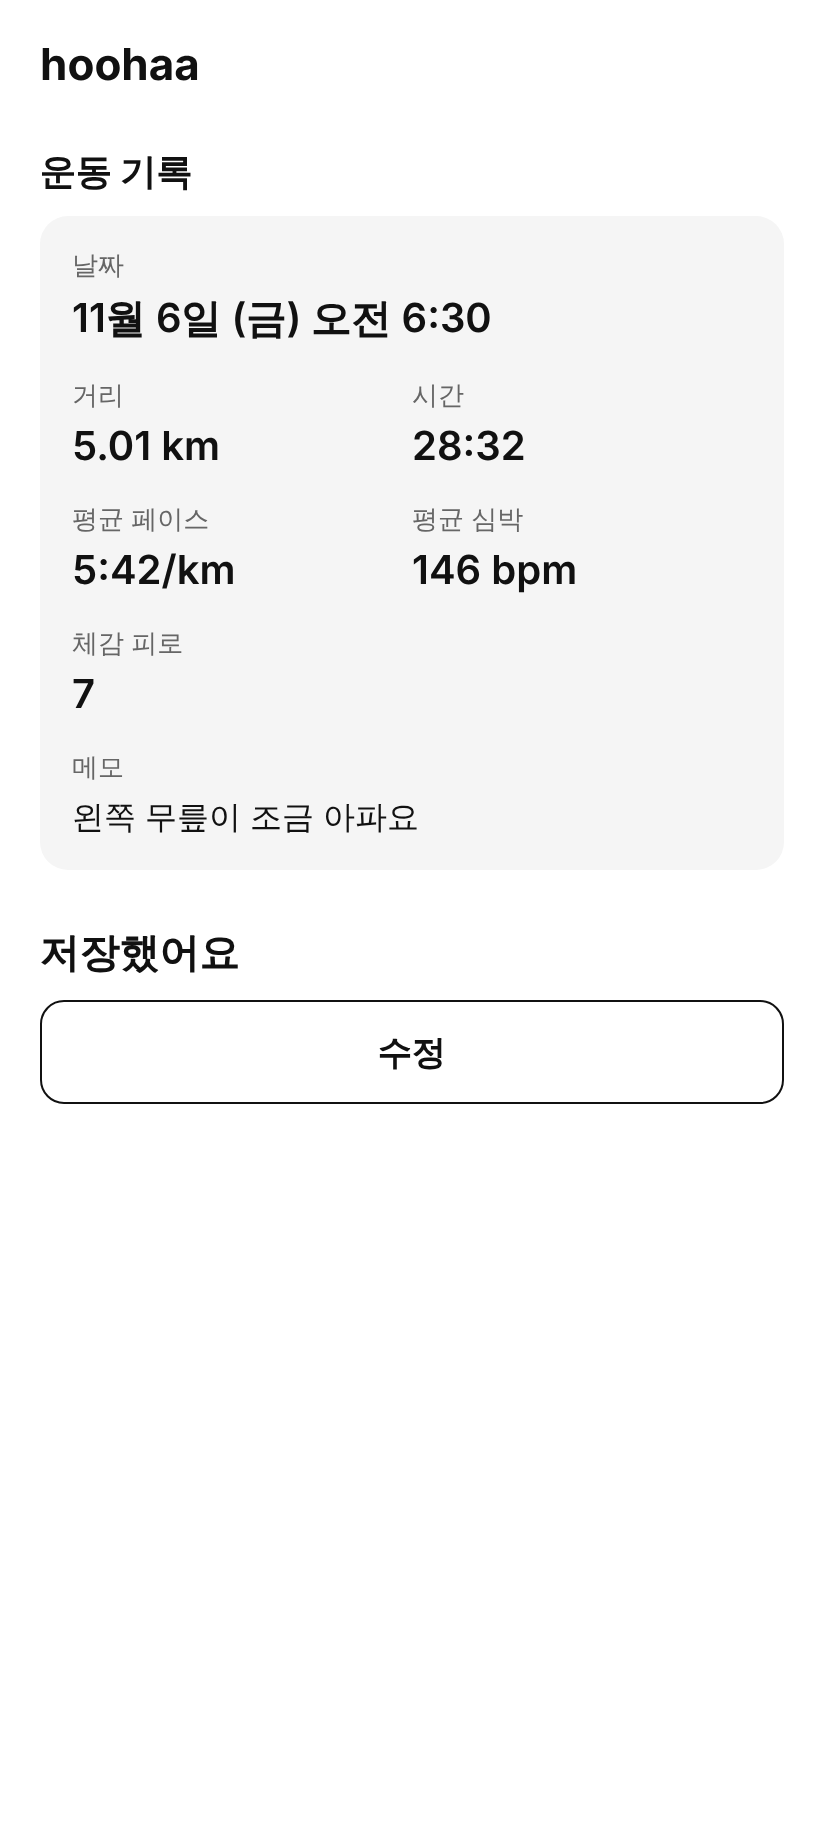
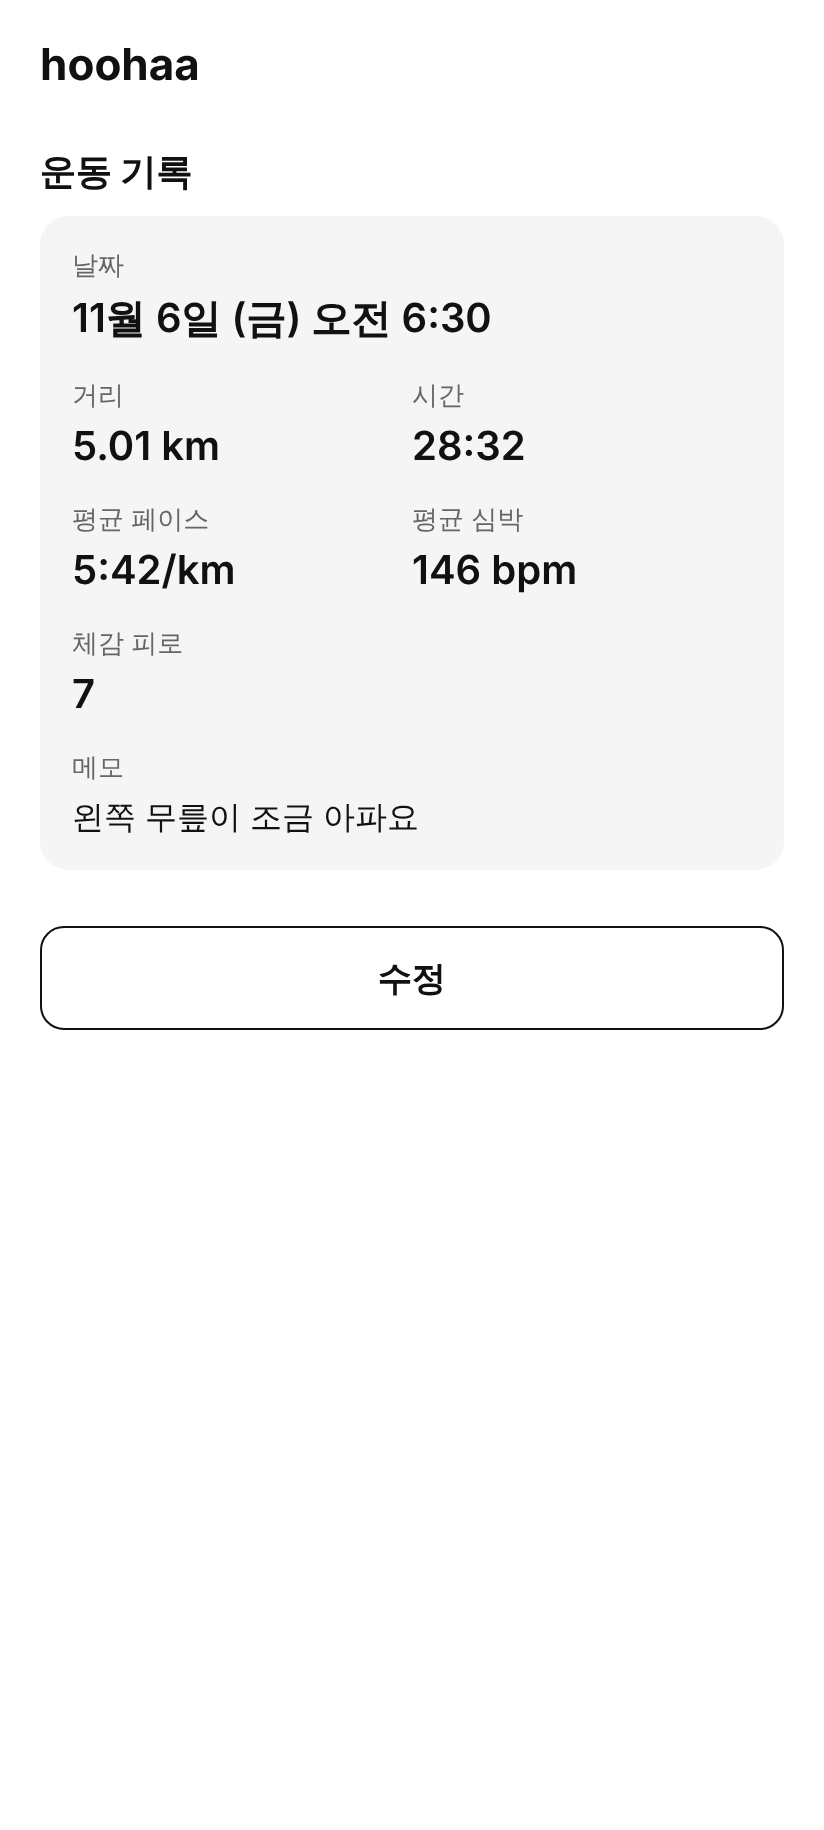
v4 폰 앱: 다시 들어온 기록에는 "저장했어요"를 보여 주지 않는다
리뷰에서 정한 것. "저장했어요"는 저장을 누른 직후에만 보여 준다. 이미 저장한 기록이 다시 들어오면
저장된 값과 "수정"만 둔다. copy.md에 결정으로 적고, 스크린샷 두 장을 다시 찍었다.

Claude-Session: https://claude.ai/code/session_019gxRj8CrMBLB4QdV15HQTY

Changed region(s): [[0.0303, 0.4984, 0.3034, 0.5607], [0.4551, 0.5295, 0.5461, 0.5918], [0.9405, 0.5295, 0.9709, 0.5607]]

diff --git a/mobile/__tests__/after-run-screen.test.tsx b/mobile/__tests__/after-run-screen.test.tsx
@@ -321,6 +321,8 @@ describe('이미 저장한 기록이 다시 들어올 때 (기기 저장소)', (
     expect(screen.queryAllByRole('radio')).toHaveLength(0);
     expect(screen.queryByLabelText('메모 (선택)')).toBeNull();
     expect(screen.queryByRole('button', { name: '저장' })).toBeNull();
+    // "저장했어요"는 방금 저장했을 때만 하는 말이다. 다시 들어온 기록에는 없다.
+    expect(screen.queryByText('저장했어요')).toBeNull();
   }
 
   test.each(['apple_health', 'health_connect'] as const)(
@@ -385,15 +387,30 @@ describe('이미 저장한 기록이 다시 들어올 때 (기기 저장소)', (
     expect(await AsyncStorage.getAllKeys()).toHaveLength(1);
   });
 
-  test('"저장했어요"는 방금 저장했을 때만 화면 낭독기가 새 소식으로 읽는다', async () => {
+  test('"저장했어요"는 방금 저장했을 때만 보인다. 다시 들어온 기록에는 값과 수정만 있다', async () => {
     const { user } = await open(await sample(), createDeviceRecordStore());
     await user.press(screen.getByRole('radio', { name: '체감 피로 7' }));
     await user.press(screen.getByRole('button', { name: '저장' }));
+    // 저장하면 화면 낭독기도 읽는다.
     expect((await screen.findByText('저장했어요')).props['aria-live']).toBe('polite');
     await screen.unmount();
 
-    await reopen('apple_health');
-    expect(screen.getByText('저장했어요').props['aria-live']).toBe('off');
+    const again = await reopen('apple_health');
+    expect(screen.queryByText('저장했어요')).toBeNull();
+    expect(screen.getByLabelText('체감 피로, 7')).toBeTruthy();
+
+    // 수정을 열었다가 취소해도 저장한 것이 없으니 "저장했어요"는 없다.
+    await again.user.press(screen.getByRole('button', { name: '수정' }));
+    await again.user.press(screen.getByRole('button', { name: '취소' }));
+    expect(screen.queryByText('저장했어요')).toBeNull();
+    expect(screen.getByLabelText('체감 피로, 7')).toBeTruthy();
+
+    // 고쳐서 저장하면 다시 보인다.
+    await again.user.press(screen.getByRole('button', { name: '수정' }));
+    await again.user.press(screen.getByRole('radio', { name: '체감 피로 4' }));
+    await again.user.press(screen.getByRole('button', { name: '저장' }));
+    expect(await screen.findByText('저장했어요')).toBeTruthy();
+    expect(screen.getByLabelText('체감 피로, 4')).toBeTruthy();
   });
 
   test.each<[string, string]>([
@@ -452,6 +469,7 @@ test('메모리 저장소도 같은 화면에서 다시 묻지 않는다 (저장
 
   await open(await sample(), store);
   expect(screen.queryAllByRole('radio')).toHaveLength(0);
+  expect(screen.queryByText('저장했어요')).toBeNull();
   expect(screen.getByLabelText('체감 피로, 6')).toBeTruthy();
   expect(screen.getByLabelText('메모, 가벼웠어요')).toBeTruthy();
 });

diff --git a/mobile/src/screens/AfterRunScreen.tsx b/mobile/src/screens/AfterRunScreen.tsx
@@ -1,7 +1,7 @@
 // 운동이 끝난 뒤 첫 화면. 건강 앱에서 읽은 기록을 짧게 보여 주고, 체감 피로(필수)와 메모(선택)를 받아 기록에 붙인다.
 //
 // 체감 피로는 기록마다 한 번만 묻는다. 읽은 기록에 이미 저장해 둔 체감 피로가 있으면(앱을 닫았다 열었을 때 등)
-// 묻지 않고 저장된 값을 보여 준다. 저장해 둔 값은 저장소(RecordStore)가 가져온 곳과 그곳의 기록 번호로 찾는다.
+// 묻지 않고 저장된 값을 보여 준다. 이때 "저장했어요"는 보여 주지 않는다(방금 저장했을 때만 하는 말이다). 저장해 둔 값은 저장소(RecordStore)가 가져온 곳과 그곳의 기록 번호로 찾는다.
 // 저장한 뒤에도 사용자가 "수정"을 눌러 체감 피로와 메모를 고칠 수 있다. 앱이 다시 묻지는 않는다.
 //
 // 컨디션, 목표, 내일 훈련, 통증 판단은 서버가 생긴 다음이라 여기서 보여 주지 않는다.
@@ -58,7 +58,7 @@ export function AfterRunScreen({ reader, store }: Props) {
   const [memo, setMemo] = useState('');
   const [saving, setSaving] = useState(false);
   const [saveFailed, setSaveFailed] = useState(false);
-  /** 이 화면에서 방금 저장했는지. 다시 들어온 기록의 "저장했어요"는 화면 낭독기가 새 소식처럼 읽지 않게 한다. */
+  /** 이 화면에서 저장한 적이 있는지. "저장했어요"는 저장을 누른 데 대한 대답이라, 이미 저장돼 다시 들어온 기록에는 보여 주지 않는다. */
   const [savedNow, setSavedNow] = useState(false);
 
   useEffect(() => {
@@ -223,9 +223,11 @@ export function AfterRunScreen({ reader, store }: Props) {
 
         {step === 'saved' && (
           <View style={styles.section}>
-            <Text style={styles.saved} aria-live={savedNow ? 'polite' : 'off'}>
-              {copy.saved}
-            </Text>
+            {savedNow && (
+              <Text style={styles.saved} aria-live="polite">
+                {copy.saved}
+              </Text>
+            )}
             <Pressable
               accessibilityRole="button"
               onPress={startEdit}

diff --git a/.trail/learnings/2026-11-13-note-claude-3.md b/.trail/learnings/2026-11-13-note-claude-3.md
@@ -1,0 +1,37 @@
+---
+title: "체감 피로와 메모는 기기에 그 둘만, 기록마다 키 하나로 저장하고, 다시 들어온 기록에는 값과 수정만 보여 준다"
+author: Claude
+date: 2026-11-13
+branch: claude/compassionate-brahmagupta-6bhj3z
+cost: { minutes: 4, tokens: 36748 }
+id: l-e7bbefa7
+scope: repo
+status: active
+replaces: l-886a0956
+src: agent
+touches:
+  - mobile/src/record/store.ts
+  - mobile/src/record/device-store.ts
+  - mobile/src/screens/AfterRunScreen.tsx
+  - docs/v4/features/copy.md
+  - mobile/tools/screenshot.mjs
+  - docs/screenshots/v4/after-run-5-reopened-iphone.png
+  - docs/screenshots/v4/after-run-5-reopened-android.png
+---
+
+## Decided
+- 기기에는 체감 피로와 메모만 둔다. 기록 전체(경로, 심박 표본, extra)는 넣지 않는다. 측정값은 건강 앱이 갖고 있어 앱을 열 때마다 다시 읽고, 경로까지 넣으면 AsyncStorage 한 칸에 담기에 너무 크다.
+- 기록 하나에 키 하나다. 한 칸이 깨져도 다른 기록은 그대로다. 기록은 가져온 곳 + 그곳의 기록 번호로만 찾는다(사용자 지시).
+- 저장된 값이 깨졌거나 형식이 다르면 저장한 적이 없는 것으로 보고 처음처럼 다시 묻는다(사용자 지시). 기기 저장소 자체를 읽지 못하면 묻지 않고 "다시 읽기"를 보여 준다. 값이 있는지 모르는 채로 물으면 "한 번만 묻는다"에 어긋나고 멀쩡한 예전 값을 덮어쓸 수 있어서다.
+- 이미 저장한 기록이 다시 들어오면 "저장했어요"를 보여 주지 않고 저장된 값과 "수정"만 둔다(사용자 결정, 2026-11-13). "저장했어요"는 저장을 누른 직후에만 하는 말이다.
+
+## Tried and ruled out
+- 다시 들어온 기록에 저장 직후 화면을 그대로 쓰고 aria-live만 끄기: 처음에 이렇게 했다. 앱을 열 때마다 아무것도 안 했는데 "저장했어요"가 굵게 떠서 앱이 방금 뭔가를 한 것처럼 읽혔다.
+
+## Watch out
+- 저장 형식의 source, sourceRecordId는 아직 제안인 이름이다. 이름이 바뀌면 SAVED_VERSION을 올려야 하고, 옮기는 코드가 없으면 예전에 저장한 기록은 다시 묻게 된다.
+- 확인용 웹 번들에서 AsyncStorage는 브라우저의 localStorage다. 스크린샷 흐름의 5-reopened는 page.reload()로 앱을 다시 연 것을 확인한다.
+- AsyncStorage의 Jest 가짜는 한 테스트 파일 안에서 남는다. beforeEach에서 AsyncStorage.clear()로 비운다.
+- 이 클라우드 환경에서 `npx expo install`은 프록시에 막힌다. `EXPO_OFFLINE=1 npx expo install <패키지>`로 받는다.
+
+In the code: mobile/src/record/store.ts (RecordStore), mobile/src/record/device-store.ts (storageKey, parseSaved, SAVED_VERSION), mobile/src/screens/AfterRunScreen.tsx (readWithSavedInput, savedNow), docs/v4/features/copy.md, mobile/tools/screenshot.mjs (5-reopened)

diff --git a/mobile/README.md b/mobile/README.md
@@ -104,10 +104,9 @@ import { D } from '@hoohaa/engine/data.js';
 3. 메모는 선택이다.
 4. 저장을 누르면 기록에 체감 피로와 메모가 붙고 "저장했어요"가 보인다.
 5. 저장한 뒤 "수정"을 누르면 저장한 값이 채워진 채로 다시 열린다. 고쳐서 저장하면 같은 기록의 값이 바뀌고, "취소"는 저장된 값으로 돌아간다. 앱이 다시 묻지는 않는다.
-6. 체감 피로는 기록마다 한 번만 묻는다. 앱을 닫았다 열어 같은 기록이 다시 들어오면 묻지 않고 4번의 화면(저장된 값과 "수정")을 보여 준다. 측정값은 방금 건강 앱에서 읽은 것이고, 체감 피로와 메모만 저장소에서 온다.
+6. 체감 피로는 기록마다 한 번만 묻는다. 앱을 닫았다 열어 같은 기록이 다시 들어오면 묻지 않고 저장된 값과 "수정"만 보여 준다. "저장했어요"는 방금 저장했을 때만 하는 말이라 이때는 없다. 측정값은 방금 건강 앱에서 읽은 것이고, 체감 피로와 메모만 저장소에서 온다.
 
 - 컨디션, 목표, 내일 훈련, 통증 판단은 서버가 생긴 다음이라 이 화면에 없다.
-- 다시 들어온 기록의 "저장했어요"는 화면 낭독기가 새 소식으로 읽지 않는다(방금 저장했을 때만 읽는다).
 - 화면 문장은 `src/copy/after-run.ts` 한 곳에 있다. 기준은 [../docs/v4/features/copy.md](../docs/v4/features/copy.md)의 "기록과 체감 피로" 표다. `__tests__/copy-doc.test.ts`가 코드의 문장이 그 표에 그대로 있는지 보므로, 문장을 고칠 때는 두 곳을 같이 고친다.
 - 기록의 시간은 멈춘 구간을 뺀 값이다. 헬스 커넥트는 시간 항목이 없어 끝 − 시작에서 PAUSE 구간을 뺀다(`src/record/health-connect.ts`). 그래서 같은 달리기는 두 건강 앱에서 같은 시간과 평균 페이스로 보인다.
 - 피로 버튼은 한 줄에 5개씩 두 줄이다. 10개를 한 줄에 두면 좁은 폰에서 누르는 영역이 44pt보다 작아진다. 버튼마다 화면 낭독기가 읽을 이름("체감 피로 7")이 있다.

diff --git a/docs/v4/features/copy.md b/docs/v4/features/copy.md
@@ -53,6 +53,8 @@
 
 기록 항목은 값이 있을 때만 보여 준다. 값은 숫자와 단위다(예: 5.01 km, 28:32, 5:42/km, 156 bpm).
 
+**결정.** "저장했어요"는 저장을 누른 직후에만 보여 준다. 이미 저장한 기록이 다시 들어왔을 때(앱을 닫았다 열었을 때)는 보여 주지 않고, 저장된 값과 "수정"만 둔다.
+
 화면에는 보이지 않고 화면 낭독기가 읽는 이름이다. 중괄호는 코드가 넣는 숫자다.
 
 | 자리 | 문장 |
